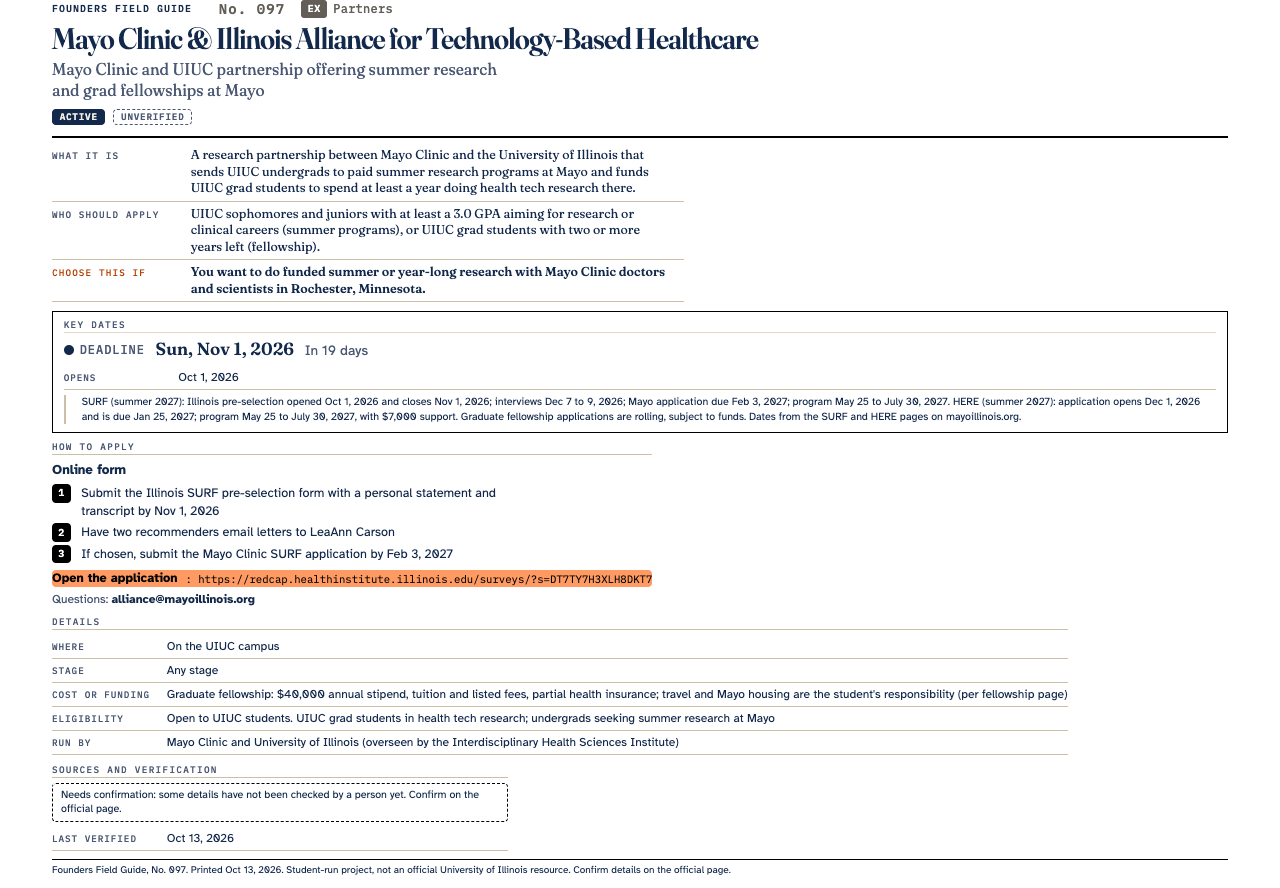
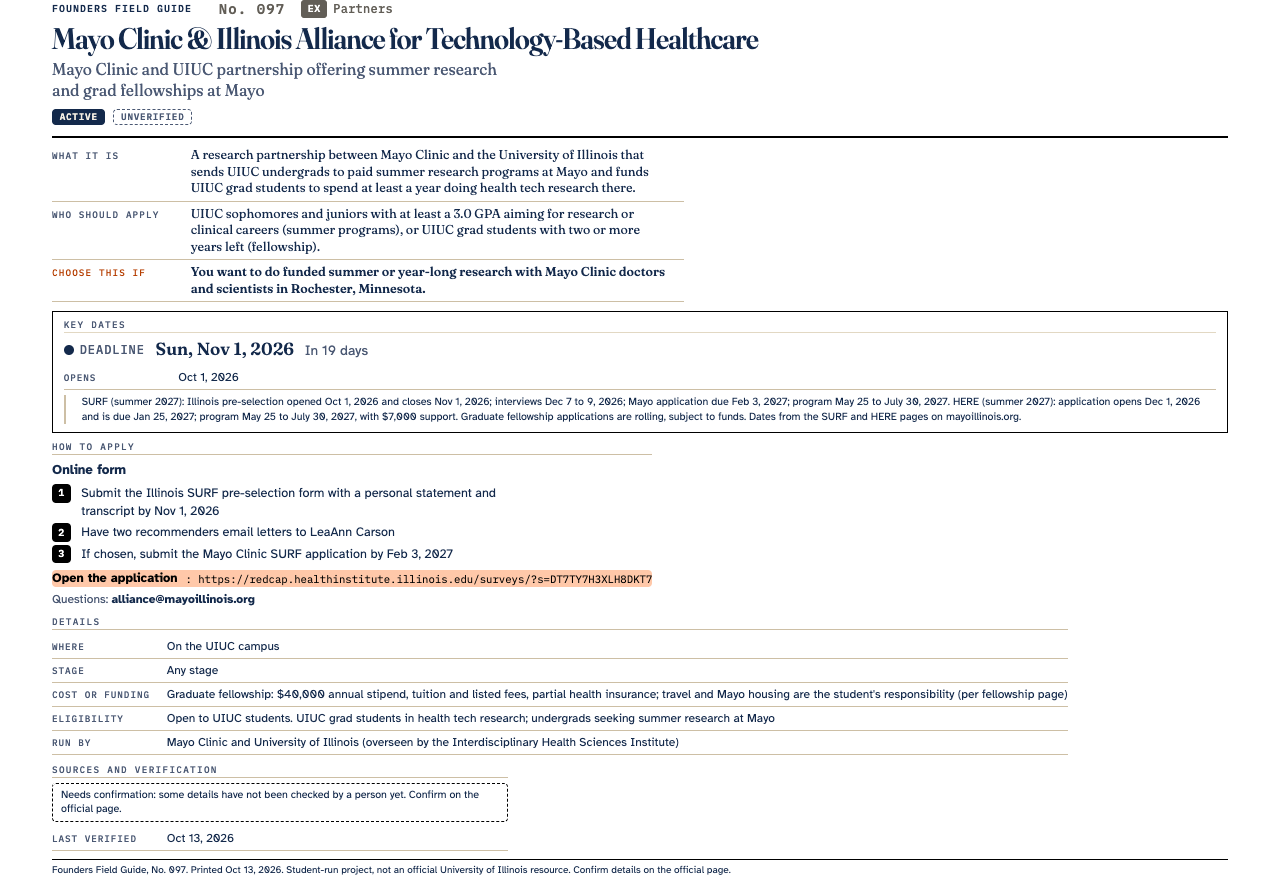
Update README, taxonomy, and gap analysis for round 2
README covers the new fields, filter and calendar behavior, regeneration and
tests, Airtable field types and views (including missing steps and a
calendar on next_deadline), verification policy, and corrections.

Changed region(s): [[0.0312, 0.6385, 0.5312, 0.6689]]

diff --git a/README.md b/README.md
@@ -1,72 +1,146 @@
-# Founders Resource Map
+# Founders Field Guide
 
-A student-built directory of entrepreneurship resources for University of Illinois
-Urbana-Champaign students, with descriptions, links, deadlines, and filters. Built by the
-Founders: Illinois Entrepreneurs team.
+A student-built guide to entrepreneurship resources at the University of Illinois
+Urbana-Champaign. It covers competitions, funding, labs, clubs, and offices. For each one it
+says what it is, who should apply, how to apply, and when it closes. Built by the Founders:
+Illinois Entrepreneurs team.
 
 > Student-run project, not an official University of Illinois resource.
 
-![Desktop view](docs/screenshots/desktop.png)
+![Directory, desktop](docs/screenshots/desktop.png)
+
+| Calendar | Resource page | Phone |
+|---|---|---|
+| ![Calendar](docs/screenshots/desktop-calendar.png) | ![Resource page](docs/screenshots/desktop-detail.png) | ![Phone](docs/screenshots/mobile.png) |
 
 ## Why this exists
 
 The University's [Entrepreneurship Ecosystem Map](https://entrepreneurship.illinois.edu/about-our-ecosystem/entrepreneurship-ecosystem-map)
-lists about 127 partners and programs. It is a useful starting point, but for a student trying to
-find help it has real problems:
+lists about 127 partners and programs as bare names. It has no descriptions, no links per
+resource, no dates, no search, and it contains duplicates and stale entries. This guide turns
+that list into one plain-English entry per resource, adds resources the map misses, and keeps
+every date tied to an official source. See `notes/gap_analysis.md`.
 
-- **No descriptions.** Entries are bare names, so you cannot tell what a program does or who it is for.
-- **No links per resource.** The list has no links. The only links are eight footer links, and one of them still points to the old `tec.illinois.edu` domain.
-- **No dates or deadlines.** You cannot tell what is open now or what closes soon.
-- **No search or filtering.** It is a long set of bulleted lists organized by org chart.
-- **Duplicates and stale entries.** 26 resources appear more than once, and several listed programs look renamed or discontinued.
-- **Hard to scan.** It is a plain page with mixed casing and no visual hierarchy.
+**Current numbers (2026-10-13):**
+- 127 map entries.
+- 101 resources: 93 from the map after removing duplicates, plus 8 added by Founders.
+- 12 confirmed upcoming deadlines and events.
+- 60 resources with step-by-step apply instructions.
+- 77 resources still marked unverified until a teammate checks them.
 
-This directory fixes those problems. It has one card per resource with a plain-English
-description, an official link, verified dates, category tabs, search, and filters. It also
-adds resources the map is missing, such as Product Space. See `notes/gap_analysis.md` for the
-evidence.
+## What changed in round 2
 
-**Current numbers (2026-10-13):** 127 map entries, 101 resources in the directory (93 from the
-map after deduplication, 8 added by Founders). 88 resources are marked unverified until the team
-confirms them.
+Peer feedback said four things:
+- Titles did not explain what things were.
+- Deadlines were missing.
+- The detail panel felt generated.
+- Nobody could tell how to apply.
+
+Round 2 responds with:
+- **Plain-English summaries.** Every entry now has a tagline under its name, plus three
+  summary rows: *What it is*, *Who should apply*, *Choose this if*.
+- **How to apply.** Every entry has an application method and, where an official page
+  describes them, up to three numbered steps and a direct apply link.
+- **Deadline types.** Every deadline is typed Confirmed, Typical, Rolling, None published, or
+  Unknown. Past cycles are recorded so teammates can see when things usually open.
+- **A deadlines calendar** with the same filters as the directory, plus .ics export.
+- **A real page for each resource** (linkable, works with Back), with a one-page print handout.
+- **A new design.** The concept is a numbered field guide with a season strip across the
+  academic year. See `notes/design_brief.md`.
+
+The audit that set these priorities is in `notes/round2_audit.md`.
 
 ## Folder layout
 
 ```
 README.md
 data/
-  raw_map_entries.csv          every entry exactly as listed on the map, with its section path and canonical id
-  resources.csv                source of truth: one row per canonical resource, ready to import into Airtable
+  raw_map_entries.csv          every entry exactly as listed on the map, with section path and canonical id
+  resources.csv                source of truth: one row per resource, ready to import into Airtable
   resources.json               same data, generated for the site
-  map_snapshot_2026-10-13.html saved copy of the University map page used for extraction
+  map_snapshot_2026-10-13.html saved copy of the University map used for extraction
 notes/
-  schema.md                    every field, its type, allowed values, and an example
-  taxonomy.md                  categories (site tabs), tag vocabulary, stage values, usage rules
-  gap_analysis.md              what the map has and lacks, what we added, what looks defunct, with evidence
-  to_confirm.md                checklist of facts a person must verify, split into batches
+  schema.md                    every field, its type, allowed values, an example, and what the validator enforces
+  taxonomy.md                  categories, category codes, tags, stage, location
+  round2_audit.md              what was missing before round 2, and the research priorities
+  design_brief.md              references, principles, concepts, design system, critique loop
+  gap_analysis.md              what the map has and lacks, what we added, what looks defunct
+  to_confirm.md                checks a person must make, in batches of about 10 resources
 scripts/
   extract_map.py               parses the map into raw_map_entries.csv
-  build.py                     resources.csv -> resources.json + docs/index.html
   validate.py                  checks the CSV and every URL, writes results into to_confirm.md
-  site_template.html           the site's HTML, CSS, and JS (build.py injects the data)
-  test_site.cjs                headless browser smoke test and screenshots
+  build.py                     resources.csv -> resources.json + docs/index.html
+  site/index.html, styles.css, app.js   the site source; build.py inlines them into one file
+  test_site.cjs                headless browser tests and screenshots
 docs/
   index.html                   the shareable site: one self-contained file
-  screenshots/                 desktop and mobile screenshots
+  screenshots/                 desktop, mobile, and print screenshots; critique/ holds before and after passes
 ```
 
 ## Open the site locally
 
-Double-click `docs/index.html`. It works offline with no server and no build step, because the
-data is embedded in the file. (The fonts load from Google Fonts when you are online and fall back
-to system fonts when you are not.)
+Double-click `docs/index.html`. It works with no server and no build step, because the data,
+CSS, and JS are all inside the file. Fonts load from Google Fonts when you are online, and the
+page falls back to system fonts when you are not.
 
 ## Publish with GitHub Pages
 
-1. Push the repo to GitHub.
-2. Go to **Settings > Pages**.
-3. Under **Build and deployment**, choose **Deploy from a branch**, branch `main`, folder **`/docs`**. Save.
-4. After a minute the site is live at `https://<org-or-user>.github.io/founders-resource-map/`.
+1. Go to **Settings > Pages** on GitHub.
+2. Under **Build and deployment**, choose **Deploy from a branch**, branch `main`, folder **`/docs`**. Save.
+3. After a minute the site is live at `https://<org-or-user>.github.io/founders-resource-map/`.
+
+## How the site works
+
+**Directory.**
+- Entries are grouped into numbered sections in guide order. You can also sort by soonest
+  deadline or by name.
+- Each row shows the name, tagline, "choose this if", deadline, and how to apply.
+- Every resource keeps a permanent number (No. 001 and up), assigned in CSV row order. Add new
+  rows at the end, so existing numbers never shift.
+
+**Filters.** All of these filters combine with each other:
+- Category tabs
+- Search (plain words; "patent" or "3D printing" also match related tags)
+- Where
+- Your stage (choosing a stage also shows resources marked Any)
+- How you apply
+- Deadline
+
+Every option shows how many entries it would return. Active filters appear as removable chips,
+with a Clear all button. Filters live in the URL, so a filtered view can be shared as a link.
+
+**Deadline filter.** It offers single-select options plus a custom date range. The ranges count
+from today:
+
+| Option | Shows |
+|---|---|
+| Next 7 days, 8 to 30, 31 to 60, 61 to 90, More than 90 days | entries with an upcoming `next_deadline` in that range |
+| Rolling admissions | `deadline_type` Rolling |
+| No deadline published | `deadline_type` None published |
+| Date to be confirmed | no upcoming date, and the type is Typical or Unknown (or a Confirmed date has passed) |
+| Recently closed (past 30 days) | the last deadline (`last_deadline`, or a passed `next_deadline`) fell in the past 30 days |
+
+**Calendar.** Switch to it with the Directory | Calendar toggle. The same filters apply.
+- **Month grid:** markers colored by category, each labeled with a two-letter code.
+  Confirmed dates are solid. Typical dates are outlined and labeled "Typical, date not yet
+  posted", and they appear on a day only when `next_deadline` is set and justified.
+- **Agenda:** "Coming up", grouped by month, showing date, name, category, and how to apply.
+  On a phone, the agenda is all you see.
+- **Rolling and unscheduled:** every matching entry without an upcoming date, grouped by
+  type, so nothing disappears.
+- **.ics files:** use **Add** for any confirmed deadline, or **Export visible deadlines (.ics)**
+  for everything the current filters show. Clicking a marker opens that resource, and Back
+  returns to the same calendar view.
+
+**Resource pages** live at `#/resource/<id>`. Each page has:
+- breadcrumb, badges, summary rows
+- how to apply (steps, apply button, contact)
+- key dates
+- details
+- sources and verification
+- up to three related resources
+
+Empty rows are hidden. Printing a resource page gives a one-page handout.
 
 ## Edit the data, then regenerate the site
 
@@ -78,63 +152,104 @@ to system fonts when you are not.)
 python3 scripts/validate.py            # add --no-urls for a quick offline check
 # 3. Rebuild the JSON and the site
 python3 scripts/build.py
-# 4. Optional: browser test and fresh screenshots (needs Node)
+# 4. Optional: browser tests and fresh screenshots (needs Node)
 npm i --no-save playwright && npx playwright install chromium
 node scripts/test_site.cjs
 ```
 
-All Python scripts use only the standard library (Python 3.9+). `validate.py` exits with an
-error if the CSV breaks the schema, and lists URLs that did not load in `notes/to_confirm.md`.
-Some sites block scripts, so check those URLs in a browser before changing anything.
+The Python scripts use only the standard library (Python 3.9+). `validate.py` exits with an
+error if the CSV breaks the schema: missing summary rows, a bad `application_method` or
+`deadline_type`, a Confirmed deadline without a date or source, more than 3 apply steps, em
+dashes, and so on. It also lists URLs that did not load in `notes/to_confirm.md`. Some sites
+block scripts, so check those in a browser before changing anything.
 
-To re-extract the University map (for example, if it changes): `python3 scripts/extract_map.py --live`.
-If the script stops on an "Unmapped entry", add that entry to the `CANONICAL` table in the script.
+The tests pin "today" with `?today=2026-10-13`. You can do the same in a browser
+(`docs/index.html?today=2026-11-01`) to preview how the deadline filters will look on a future date.
+
+To re-extract the University map: `python3 scripts/extract_map.py --live`.
+
+## New fields (round 2)
+
+The full definitions are in `notes/schema.md`.
+
+| Field | What it holds |
+|---|---|
+| `tagline` | Plain-English label shown under the name, at most 90 characters |
+| `what_it_is` | One concrete sentence |
+| `who_should_apply` | One sentence naming the student type and stage |
+| `choose_this_if` | One sentence starting "You want to" or "You are" |
+| `application_method` | Online form, Email, Pitch submission, Info session or event, Course registration, Contact staff, Walk-in or open access, Not applicable, Unknown |
+| `apply_steps` | Up to 3 steps separated by ` \| `, only from official pages |
+| `apply_url` | The application or contact page, when it differs from `url` |
+| `opens_date` | When applications open, if published |
+| `deadline_type` | Confirmed, Typical, Rolling, None published, Unknown |
+| `last_deadline` | The most recent past deadline (powers "Recently closed") |
+
+`description` stays as a standalone 1 to 2 sentence summary for Airtable, the future website,
+and Luma. The reasoning is in `schema.md`.
 
 ## Import into Airtable
 
 The Airtable free plan allows 1,000 records per base and 5 editors, which is enough for this project.
 
 1. Create a base and choose **Import > CSV file**, then pick `data/resources.csv`.
-2. Set field types after import (see `notes/schema.md` for the full list):
+2. Set field types after import:
 
 | Field type | Fields |
 |---|---|
-| **Single select** | `category`, `location`, `stage`, `status`, `recurrence`, `student_eligible`, `confidence` |
-| **Multiple select** | `tags` (Airtable splits on commas, so first convert semicolons: in the CSV, replace `;` with `,` in the tags column only, or import as text and use a formula/automation to split) |
-| **Checkbox** | `on_university_map`, `needs_confirmation` (TRUE becomes checked) |
-| **Date (ISO format)** | `next_deadline`, `last_verified` |
-| **URL** | `url` |
+| **Single select** | `category`, `location`, `stage`, `status`, `recurrence`, `student_eligible`, `confidence`, `application_method`, `deadline_type` |
+| **Multiple select** | `tags` (Airtable splits on commas, so first replace `;` with `,` in the tags column only, or import as text and split with an automation) |
+| **Checkbox** | `on_university_map`, `needs_confirmation` |
+| **Date (ISO format)** | `next_deadline`, `opens_date`, `last_deadline`, `last_verified` |
+| **URL** | `url`, `apply_url` |
 | **Email** | `contact_email` |
-| **Long text** | `description`, `deadline_note`, `notes`, `source_urls` |
-| Single line text | everything else |
+| **Long text** | `description`, `what_it_is`, `who_should_apply`, `choose_this_if`, `apply_steps`, `deadline_note`, `notes`, `source_urls` |
+| Single line text | everything else, including `tagline` |
 
-3. Make `name` the primary field. Keep `id` as a normal field and never change an existing id, because the site and any future integrations (Luma, the larger website) key on it.
+3. Make `name` the primary field. Keep `id` as a normal field and never change an existing id,
+   because the site and future integrations (Luma, the larger website) key on it.
 4. Create these views:
-   - **By category:** Grid view grouped by `category`, sorted by `name`.
-   - **Closing soon:** filter `next_deadline` is on or after today, sorted by `next_deadline` ascending.
+   - **By category:** grid grouped by `category`, sorted by `name`.
+   - **Closing soon:** filter `next_deadline` is on or after today, sorted by `next_deadline`.
    - **Active only:** filter `status` = Active.
    - **Needs confirmation:** filter `needs_confirmation` is checked, grouped by `category`. This is the team's work queue.
-5. To update the site from Airtable: **Download CSV** from the grid view (all fields, original column order), save it over `data/resources.csv`, convert tags back to semicolons if you changed them, then run `validate.py` and `build.py`.
+   - **Missing application steps:** filter `apply_steps` is empty and `application_method` is not Not applicable or Walk-in or open access.
+   - **Deadline calendar:** a Calendar view on `next_deadline`, colored by `deadline_type`.
+5. To update the site from Airtable: **Download CSV** from the grid view (all fields, original
+   column order), save it over `data/resources.csv`, and convert tags back to semicolons if you
+   changed them. Then run `validate.py` and `build.py`.
 
 ## Data verification policy
 
-A wrong deadline in front of students is worse than a blank one, so:
+A wrong deadline in front of students is worse than a blank one.
 
-- **Never guess.** Deadlines, dates, costs, award amounts, eligibility, and contact info come only from an official page. If you cannot verify it, leave it blank, set `needs_confirmation=TRUE`, and add a line to `notes/to_confirm.md` saying exactly what to check and where.
-- **Status** is `Active` only when an official page shows current activity (a 2026 or upcoming date, an open application, or a recent event), with that page in `source_urls`. `Inactive` needs clear evidence that the program ended. Otherwise it is `Unknown`.
-- **Confidence:** High = an official page confirms it. Medium = a credible secondary source. Low = inferred.
-- **last_verified** is the date a person checked the row, not a date shown on the page.
-- **Descriptions** are written in our own words, 1 to 2 sentences, with no copied site text and no em dashes.
-- **The site shows uncertainty.** Unverified entries carry an "Unverified" badge and a notice in the detail panel. Unknown status is shown as "Status unknown".
+- **Never guess.** Deadlines, dates, costs, award amounts, eligibility, application steps, and contact info come only from an official page. If you cannot verify something, leave it blank, keep `needs_confirmation=TRUE`, and add a line to `notes/to_confirm.md` saying exactly what to check and where.
+- **Deadline types.**
+  - **Confirmed** means an official page shows that date for the upcoming cycle, and the page is in `source_urls`.
+  - **Typical** means a documented pattern from past cycles, with the evidence in `deadline_note`. Typical dates are never placed on the calendar unless a specific date is justified.
+- **Status** is `Active` only when an official page shows a current or upcoming cycle, or an ongoing service. If the last deadline passed and no new cycle is posted, status is `Unknown`. `Inactive` needs clear evidence the program ended.
+- **Confidence:** High means an official page confirms it. Medium means a credible secondary source. Low means inferred.
+- **last_verified** is the date a person checked the row.
+- **Writing:** our own words, specific, no copied site text, and no em dashes.
+- **The site shows uncertainty.** Unverified entries carry a marker in the list, and each resource page includes a "Needs confirmation" notice.
 
 ## Suggest or correct a resource
 
-- **Teammates:** pick a batch in `notes/to_confirm.md`, verify the items, edit `data/resources.csv` (or Airtable), run `validate.py` and `build.py`, and open a pull request. Put the evidence URL in `source_urls` and set `last_verified` to the day you checked.
-- **New resource:** add a row with a new lowercase slug `id`, `on_university_map=FALSE`, and the evidence in `source_urls`, then add a line to the "Resources added by Founders" table in `notes/gap_analysis.md`.
-- **Anyone else:** use the "Suggest a resource" link in the site footer. It is a `mailto:` placeholder (`founders-resources@example.com`), so replace it in `scripts/site_template.html` with the team's real address and rebuild.
+- **Teammates:**
+  1. Take a batch in `notes/to_confirm.md` (about 10 resources each) and verify the items.
+  2. Edit `data/resources.csv` (or Airtable). Put the evidence URL in `source_urls` and set `last_verified` to the day you checked.
+  3. Run `validate.py` and `build.py`, then open a pull request.
+- **New resource:**
+  1. Add a row at the end of the CSV with a new lowercase slug `id`, `on_university_map=FALSE`, and the evidence in `source_urls`.
+  2. Fill the summary rows, `application_method`, and `deadline_type`.
+  3. Add a line to "Resources added by Founders" in `notes/gap_analysis.md`.
+- **Anyone else:** every resource page has a "Suggest a correction" link, prefilled with the
+  resource name, and the footer has "Suggest a resource". These links open a prefilled GitHub
+  issue. To make them prefilled emails instead, set `CONFIG["corrections_email"]` in
+  `scripts/build.py` to the team's shared inbox and rebuild.
 
 ## Disclaimer
 
 This is a student-run project by Founders: Illinois Entrepreneurs. It is not an official
-University of Illinois resource and is not endorsed by the University. Program details change;
-always confirm on the official site before applying.
+University of Illinois resource and is not endorsed by the University. Program details change,
+so always confirm on the official site before applying.

diff --git a/notes/gap_analysis.md b/notes/gap_analysis.md
@@ -103,23 +103,24 @@ status and a note. Status is `Inactive` only where an official page says the pro
 | Evergreen Fund (Illinois Ventures) | No official page mentions it. Merged into Illinois Ventures pending confirmation | (merged) | https://illinoisventures.com/ |
 | Illinois Reboot Tech Training | Research Park says it has been retired | Inactive | https://researchpark.illinois.edu/all-events/ilreboot/ |
 | Innovation Celebration | Last held 2019; 2020 edition postponed indefinitely | Inactive | https://innovationcelebration.com/ |
-| Pygmalion Tech Festival | Festival is active (Sept 24 to 27, 2026) but the tech track appears only in 2016 to 2019 sources | Active (festival) | https://thisispygmalion.com/ |
+| Pygmalion Tech Festival | The 2026 festival ran Sept 24 to 27, but the tech track appears only in 2016 to 2019 sources. Round 2 set status to Unknown because the 2026 edition is over and no 2027 dates are posted | Unknown | https://thisispygmalion.com/ |
 | Champaign-Urbana CEO Roundtable | Now called the CEO and Founders Roundtable | Unknown | https://researchpark.illinois.edu/all-events/ceo-founders-roundtable/ |
-| AWARE seed grants & mentoring | Official page returns 404; not on current Research Park resources | Unknown | https://researchpark.illinois.edu/AWARE (404) |
-| I-Start Accelerator Program | Only source is a 2011 pilot announcement | Unknown | https://researchpark.illinois.edu/i-start-program-launching-soon-il-dceo-awards-grant-funding/ |
+| AWARE seed grants & mentoring | Round 2: the old Research Park page is gone, but AWARE now lives at the Landuyt Center as starter courses, advising, small Maker Money grants, and prizes for early Cozad teams. Row renamed and re-pointed; whether it is the direct successor is still to confirm | Active (Medium confidence) | https://landuyt.illinois.edu/programs/aware |
+| I-Start Accelerator Program | Only source is a 2011 pilot announcement; round 2 found it missing from the 2026 list of EnterpriseWorks programs. Recommend removing | Unknown | https://researchpark.illinois.edu/i-start-program-launching-soon-il-dceo-awards-grant-funding/ |
 | FAST Center SBIR & STTR Assistance | Link from the incubator page returns 404; working page is `/resources/illinois-fast-center/` | Unknown | https://researchpark.illinois.edu/resources/illinois-fast-center/ |
-| Alchemy Technology Foundry | `alchemyfoundry.com` redirects to a domain-for-sale page; not on current Landuyt pages | Unknown | https://alchemyfoundry.com/ |
+| Alchemy Technology Foundry | `alchemyfoundry.com` redirects to a domain-for-sale page; not on current Landuyt pages; round 2 found its director now listed as emeritus | Unknown | https://alchemyfoundry.com/ |
 | Innovation Expo | No listings after 2020 | Unknown | https://calendars.illinois.edu/detail/7/33389506 |
 | Brand Hub (and its certificates and workshops) | `brandhub.illinois.edu` does not resolve; newest items about 2023 to 2024 | Unknown | DNS failure on 2026-10-13 |
 | Kleinmuntz Center (IGB) | No news after 2022 | Unknown | https://kleinmuntzcenter.illinois.edu/ |
 | SCD Assessment & Research Lab | Now called the Assessment and Research team | Unknown | https://designcenter.illinois.edu/research |
 | SCD Scholars & Fellows | No Fellows program found; scholar program now called Research and Practice Scholars | Unknown | https://designcenter.illinois.edu/aboutscd/ExperientiallLearning/researchscholars |
 | IDEA Lab | Official expansion is now "Innovation and Design in Engineering and the Arts" | Unknown | https://www.library.illinois.edu/enx/idea-lab/about/ |
-| Startup City Scholars | Not on the current City Scholars site; last seen in March 2025 news | Active (City Scholars) | https://cityscholars.grainger.illinois.edu/ |
+| Startup City Scholars | Not on the current City Scholars site; its apply page now returns 404. Round 2 renamed the row to City Scholars | Active (City Scholars) | https://cityscholars.grainger.illinois.edu/ |
 | Duality Quantum Accelerator | Site says Alchemist Chicago now includes Duality | Active | https://www.dualityaccelerator.com/ |
 | Illinois Ag Tech Accelerator | Latest cohort found is 2023; gener8tor's agtech page returns 404 | Unknown | https://researchpark.illinois.edu/illinois-agtech-accelerator-launches-fifth-cohort-with-five-startups-2/ |
 | Illinois University Incubator Network | Research Park page returns 404; no activity after 2024 | Unknown | https://illinoisincubators.org/ |
 | Translational Research Facility | No UIUC facility by this name found | Unknown | https://medicine.illinois.edu/research/facilities |
 | Catalyze, ThinkChicago, ELLC Roundtable, EILC | Newest dated activity is 2022 to 2024 | Unknown | see each row's `source_urls` |
 | Zero2One | Site content stops at Fall 2024; one LinkedIn page marked inactive | Unknown | https://www.zero2onevc.com/ |
+| Polsky Center (College New Venture Challenge) | Round 2: UIUC Startup City Scholars students could enter the CNVC in 2024 to 25, but the Nov 2025 and Feb 2026 announcements limit it to returning UChicago undergrads | Active (UChicago-focused) | https://polsky.uchicago.edu/ |
 | OTCR Consulting, Founders | Old domains are broken (`otcr.illinois.edu` does not resolve; `founders.illinois.edu` has a certificate error). Rows point to current RSO or Gies pages | Unknown | https://one.illinois.edu/FoundersIllinoisEntrepreneurs/ |

diff --git a/notes/taxonomy.md b/notes/taxonomy.md
@@ -39,6 +39,29 @@ Each resource gets exactly one category: the one a student would look under firs
   networks that mostly serve faculty or staff. Their descriptions say plainly what a student can
   actually get from them.
 
+### Category codes on the site
+
+Round 2 kept the same 11 categories. The site labels each one with a short name and a
+two-letter code, so category is never shown by color alone. The codes appear on tabs,
+calendar markers, and the agenda. They are display-only and are not stored in the CSV.
+
+| Code | Short name | Category |
+|---|---|---|
+| CP | Competitions | Pitch Competitions & Challenges |
+| AC | Accelerators | Accelerators & Incubators |
+| FN | Funding | Funding & Grants |
+| CR | Courses | Courses & Training |
+| FL | Fellowships | Fellowships & Internships |
+| MK | Maker spaces | Maker Spaces & Labs |
+| SO | Student orgs | Student Organizations |
+| EV | Events | Events & Community |
+| AD | Advising | Advising & Legal/IP |
+| HB | Campus hubs | Campus Hubs |
+| EX | Partners | External Partners |
+
+To add or rename a category, change `CATEGORIES` in `scripts/build.py`, the `CAT` table in
+`scripts/site/app.js`, and the `--c-XX` color in `scripts/site/styles.css` together.
+
 ## Subcategory
 
 Free text, short, for nuance within a tab (for example "Engineering startup competition").
@@ -84,6 +107,8 @@ On the site, filtering by a stage also shows resources marked `Any`.
 
 `UIUC` (on campus), `CU` (Champaign-Urbana, off campus), `Chicago`, `National`, `Online`.
 
-## Status, recurrence, eligibility, confidence
+## Status, recurrence, eligibility, confidence, application method, deadline type
 
-See `schema.md` for allowed values and the evidence rules for each.
+See `schema.md` for allowed values and the evidence rules for each. On the site, filtering by
+stage also includes `Any`. The deadline filter groups entries by `next_deadline` ranges and by
+`deadline_type` (Rolling, None published, and Typical or Unknown as "Date to be confirmed").
